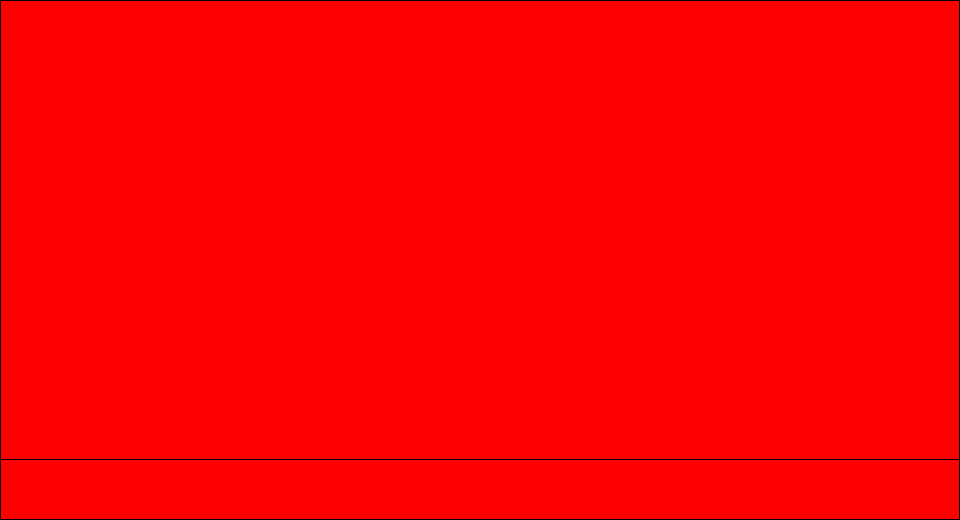
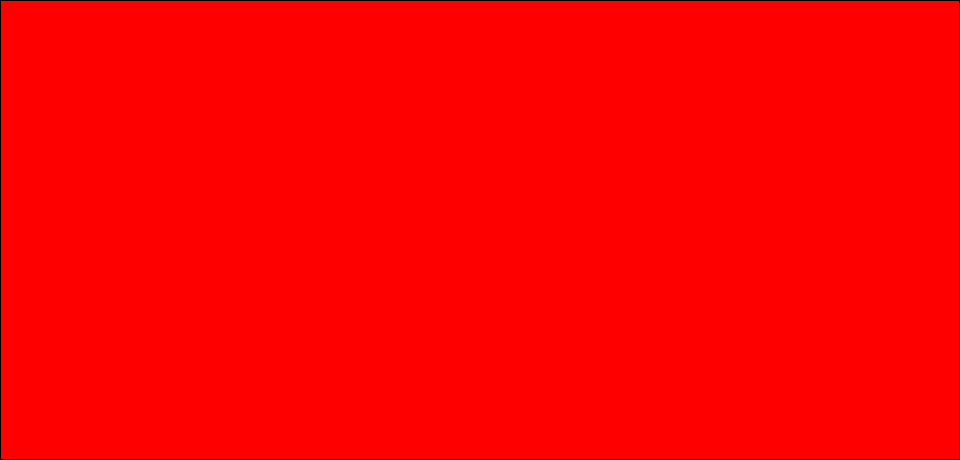
garden floor flattened

diff --git a/locations.py b/locations.py
@@ -1,6 +1,6 @@
 """The garden and rectangular apartment maps; no scene or pathfinding framework."""
 
-from constants import (GARDEN_LOCATION, GARDEN_FLOOR_SIZE, GARDEN_FLOOR_OFFSET, WORLD_HEIGHT, HALLWAY_SIZE, ROOM_SIZE, FOOT_MARGIN,
+from constants import (GARDEN_LOCATION, GARDEN_FLOOR_SIZE, GARDEN_FLOOR_OFFSET, HALLWAY_SIZE, ROOM_SIZE, FOOT_MARGIN,
                       INDOOR_FLOOR_TOP, ROOMS_PER_FLOOR, HALLWAY_DOOR_ORIGINS, HALLWAY_ELEVATOR_ORIGIN,
                       APARTMENT_OVERLAY_SIZE, APARTMENT_OVERLAY_SCALE, HALLWAY_ARRIVAL_Y, ROOM_ARRIVAL,
                       ELEVATOR_ARRIVAL, HALLWAY_EXIT, ROOM_EXIT, HALLWAY_ENTRY, HALLWAY_EXIT_RECT, ROOM_EXIT_RECT,
@@ -74,8 +74,9 @@ def feet_bounds(location):
     # Exit strips attach beyond the floor; feet stay on the floor and touch
     # the strip at its edge rather than walking into the surrounding black.
     if location == GARDEN_LOCATION:
-        left = GARDEN_FLOOR_OFFSET[0]
-        return left + FOOT_MARGIN, left + GARDEN_FLOOR_SIZE[0] - FOOT_MARGIN, GARDEN_BUILDING_POINT[1], WORLD_HEIGHT - FOOT_MARGIN
+        left, top = GARDEN_FLOOR_OFFSET
+        width, height = GARDEN_FLOOR_SIZE
+        return left + FOOT_MARGIN, left + width - FOOT_MARGIN, GARDEN_BUILDING_POINT[1], top + height - FOOT_MARGIN
     width, height = HALLWAY_SIZE if location.startswith("hallway:") else ROOM_SIZE
     return FOOT_MARGIN, width - FOOT_MARGIN, INDOOR_FLOOR_TOP + FOOT_MARGIN, height - FOOT_MARGIN
 
